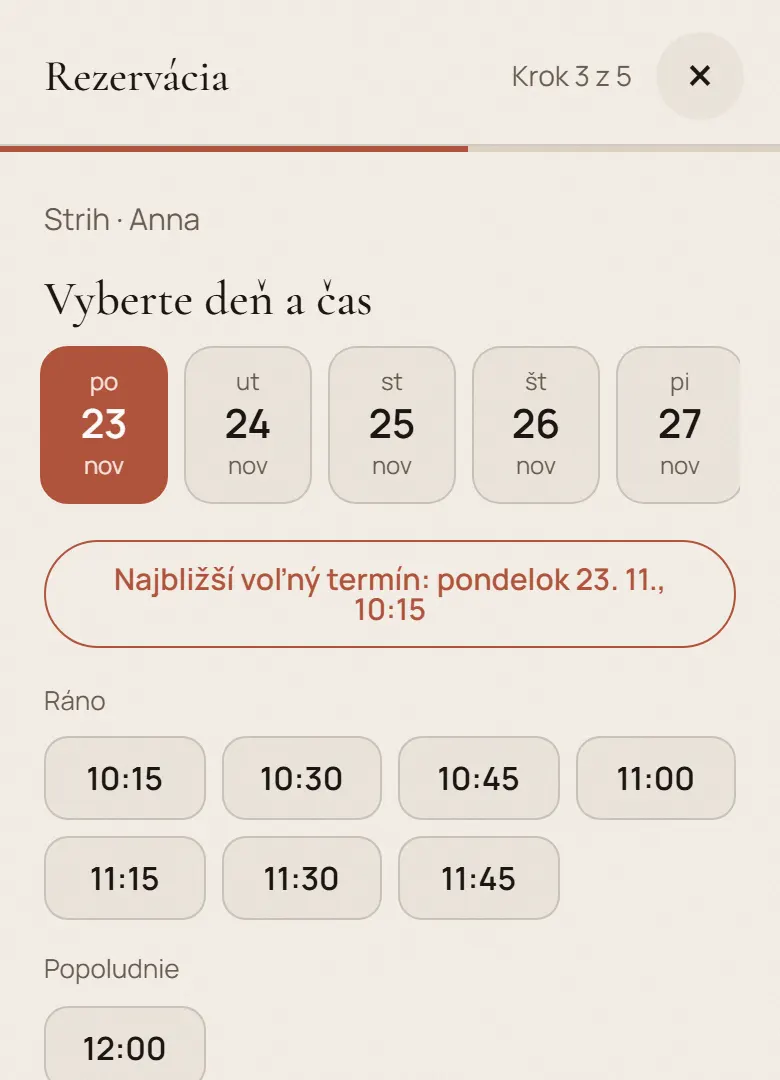
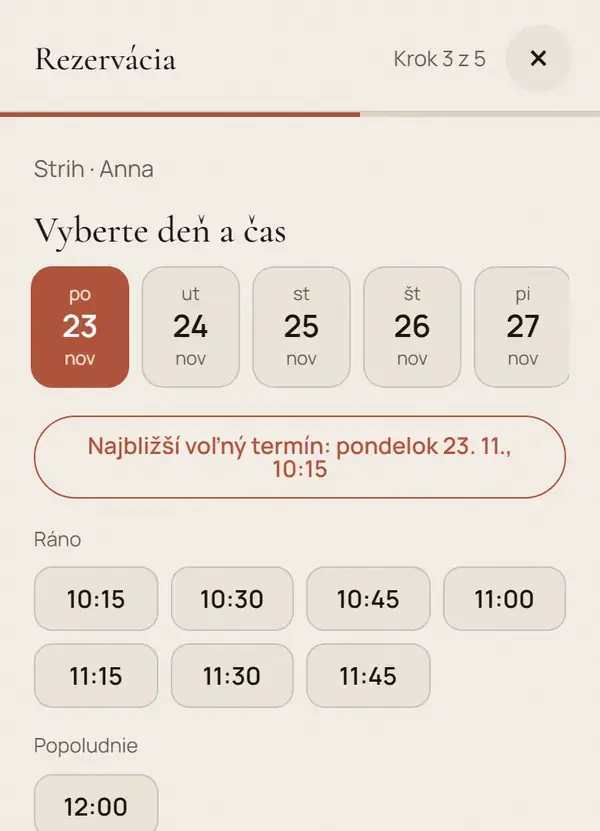
Main: Cyrillic display face after load for sk/en, lighter phone covers (LCP)

diff --git a/index.html b/index.html
@@ -25,7 +25,7 @@
 <link rel="preload" href="fonts/unbounded-latin-500.woff2" as="font" type="font/woff2" crossorigin>
 <link rel="preload" href="fonts/unbounded-sk-500.woff2" as="font" type="font/woff2" crossorigin>
 <link rel="preload" href="fonts/ibm-plex-sans-latin-400-normal.woff2" as="font" type="font/woff2" crossorigin>
-<script>try{var L=new URLSearchParams(location.search).get('lang')||localStorage.lang||navigator.language||'';if(/^(ru|uk)/.test(L)){var f=document.createElement('link');f.rel='preload';f.as='font';f.type='font/woff2';f.crossOrigin='';f.href='fonts/unbounded-cyrillic-500.woff2';document.head.appendChild(f)}}catch(e){}</script>
+<script>try{var L=new URLSearchParams(location.search).get('lang')||localStorage.lang||navigator.language||'';var cy=function(){var s=document.createElement('style');s.textContent='@font-face{font-family:"Unbounded";src:url(fonts/unbounded-cyrillic-500.woff2) format("woff2");font-weight:500;font-display:optional;unicode-range:U+0301,U+0400-045F,U+0490-0491,U+04B0-04B1,U+2116}';document.head.appendChild(s)};if(/^(ru|uk)/.test(L)){var f=document.createElement('link');f.rel='preload';f.as='font';f.type='font/woff2';f.crossOrigin='';f.href='fonts/unbounded-cyrillic-500.woff2';document.head.appendChild(f);cy()}else addEventListener('load',cy,{once:true})}catch(e){}/* sk/en: the Cyrillic display face only after load, it took first-screen bandwidth (23.11) */</script>
 <script>document.documentElement.classList.add('wow-js');try{sessionStorage.wowL&&document.documentElement.classList.add('wow-noload')}catch(e){};window.__wowT=setTimeout(()=>document.documentElement.classList.add('wow-safe'),3000)</script>
 <link rel="stylesheet" href="lib/wow.css">
 <style>
@@ -40,7 +40,6 @@
 @font-face{font-family:"Plex Mono";src:url(fonts/ibm-plex-mono-latin-400-normal.woff2) format("woff2");font-weight:400;font-display:swap}
 @font-face{font-family:"Unbounded";src:url(fonts/unbounded-latin-500.woff2) format("woff2");font-weight:500;font-display:swap;unicode-range:U+0000-00FF,U+0131,U+0152-0153,U+02BB-02BC,U+02C6,U+02DA,U+02DC,U+2000-206F,U+2074,U+20AC,U+2122,U+2191,U+2193,U+2212,U+2215,U+FEFF,U+FFFD}
 @font-face{font-family:"Unbounded";src:url(fonts/unbounded-sk-500.woff2) format("woff2");font-weight:500;font-display:swap;unicode-range:U+0104-0107,U+010C-010F,U+0118-011B,U+0139-013E,U+0141-0144,U+0147-0148,U+0150-0151,U+0154-0155,U+0158-0161,U+0164-0165,U+016E-0171,U+0179-017E}
-@font-face{font-family:"Unbounded";src:url(fonts/unbounded-cyrillic-500.woff2) format("woff2");font-weight:500;font-display:optional;unicode-range:U+0301,U+0400-045F,U+0490-0491,U+04B0-04B1,U+2116}
 /* Art direction 22.11: a page of a booking calendar. Ballpoint-ink blue, highlighter yellow for the new booking, the salon's day as an hour scale. */
 :root{
   color-scheme:light;
@@ -428,12 +427,12 @@ html.lenis{scroll-behavior:auto}
   <div class="section-head"><h2 data-i="work">Vyskúšajte si ukážky</h2></div>
   <div class="projects">
     <a class="project" href="studio-bella/" data-ex="studio-bella/" data-cursor="Studio Bella">
-      <div class="cover salon-cover"><picture><source media="(max-width:760px)" srcset="media/shot-bella-phone-780.webp" width="780" height="1080"><img src="media/shot-bella-desktop-1280.webp" srcset="media/shot-bella-desktop-800.webp 800w, media/shot-bella-desktop-1280.webp 1280w, media/shot-bella-desktop-1600.webp 1600w" sizes="(max-width:760px) 92vw, 56vw" width="1280" height="800" alt="" loading="lazy"></picture></div>
+      <div class="cover salon-cover"><picture><source media="(max-width:760px)" srcset="media/shot-bella-phone-780.webp?v=2" width="780" height="1080"><img src="media/shot-bella-desktop-1280.webp" srcset="media/shot-bella-desktop-800.webp 800w, media/shot-bella-desktop-1280.webp 1280w, media/shot-bella-desktop-1600.webp 1600w" sizes="(max-width:760px) 92vw, 56vw" width="1280" height="800" alt="" loading="lazy"></picture></div>
       <div class="project-title"><h3 data-i="bellaName">Studio Bella</h3><span class="circle-arrow" aria-hidden="true"></span></div>
       <p data-i="w0p">Vyberte si službu, špecialistku a čas. Rezerváciu potom nájdete aj v paneli majiteľa.</p>
     </a>
     <a class="project" href="garaz-4/" data-ex="garaz-4/" data-cursor="Garáž 4">
-      <div class="cover garage-cover"><picture><source media="(max-width:760px)" srcset="media/shot-garage-phone-780.webp?v=4" width="780" height="678"><img src="media/shot-garage-960.webp" width="960" height="640" alt="" loading="lazy"></picture></div>
+      <div class="cover garage-cover"><picture><source media="(max-width:760px)" srcset="media/shot-garage-phone-780.webp?v=5" width="780" height="678"><img src="media/shot-garage-960.webp" width="960" height="640" alt="" loading="lazy"></picture></div>
       <div class="project-title"><h3 data-i="garageName">Garáž 4</h3><span class="circle-arrow" aria-hidden="true"></span></div>
       <p data-i="garageDesc">Web autoservisu so službami a cenníkom. Cez formulár si zákazník vypýta cenovú ponuku.</p>
     </a>
